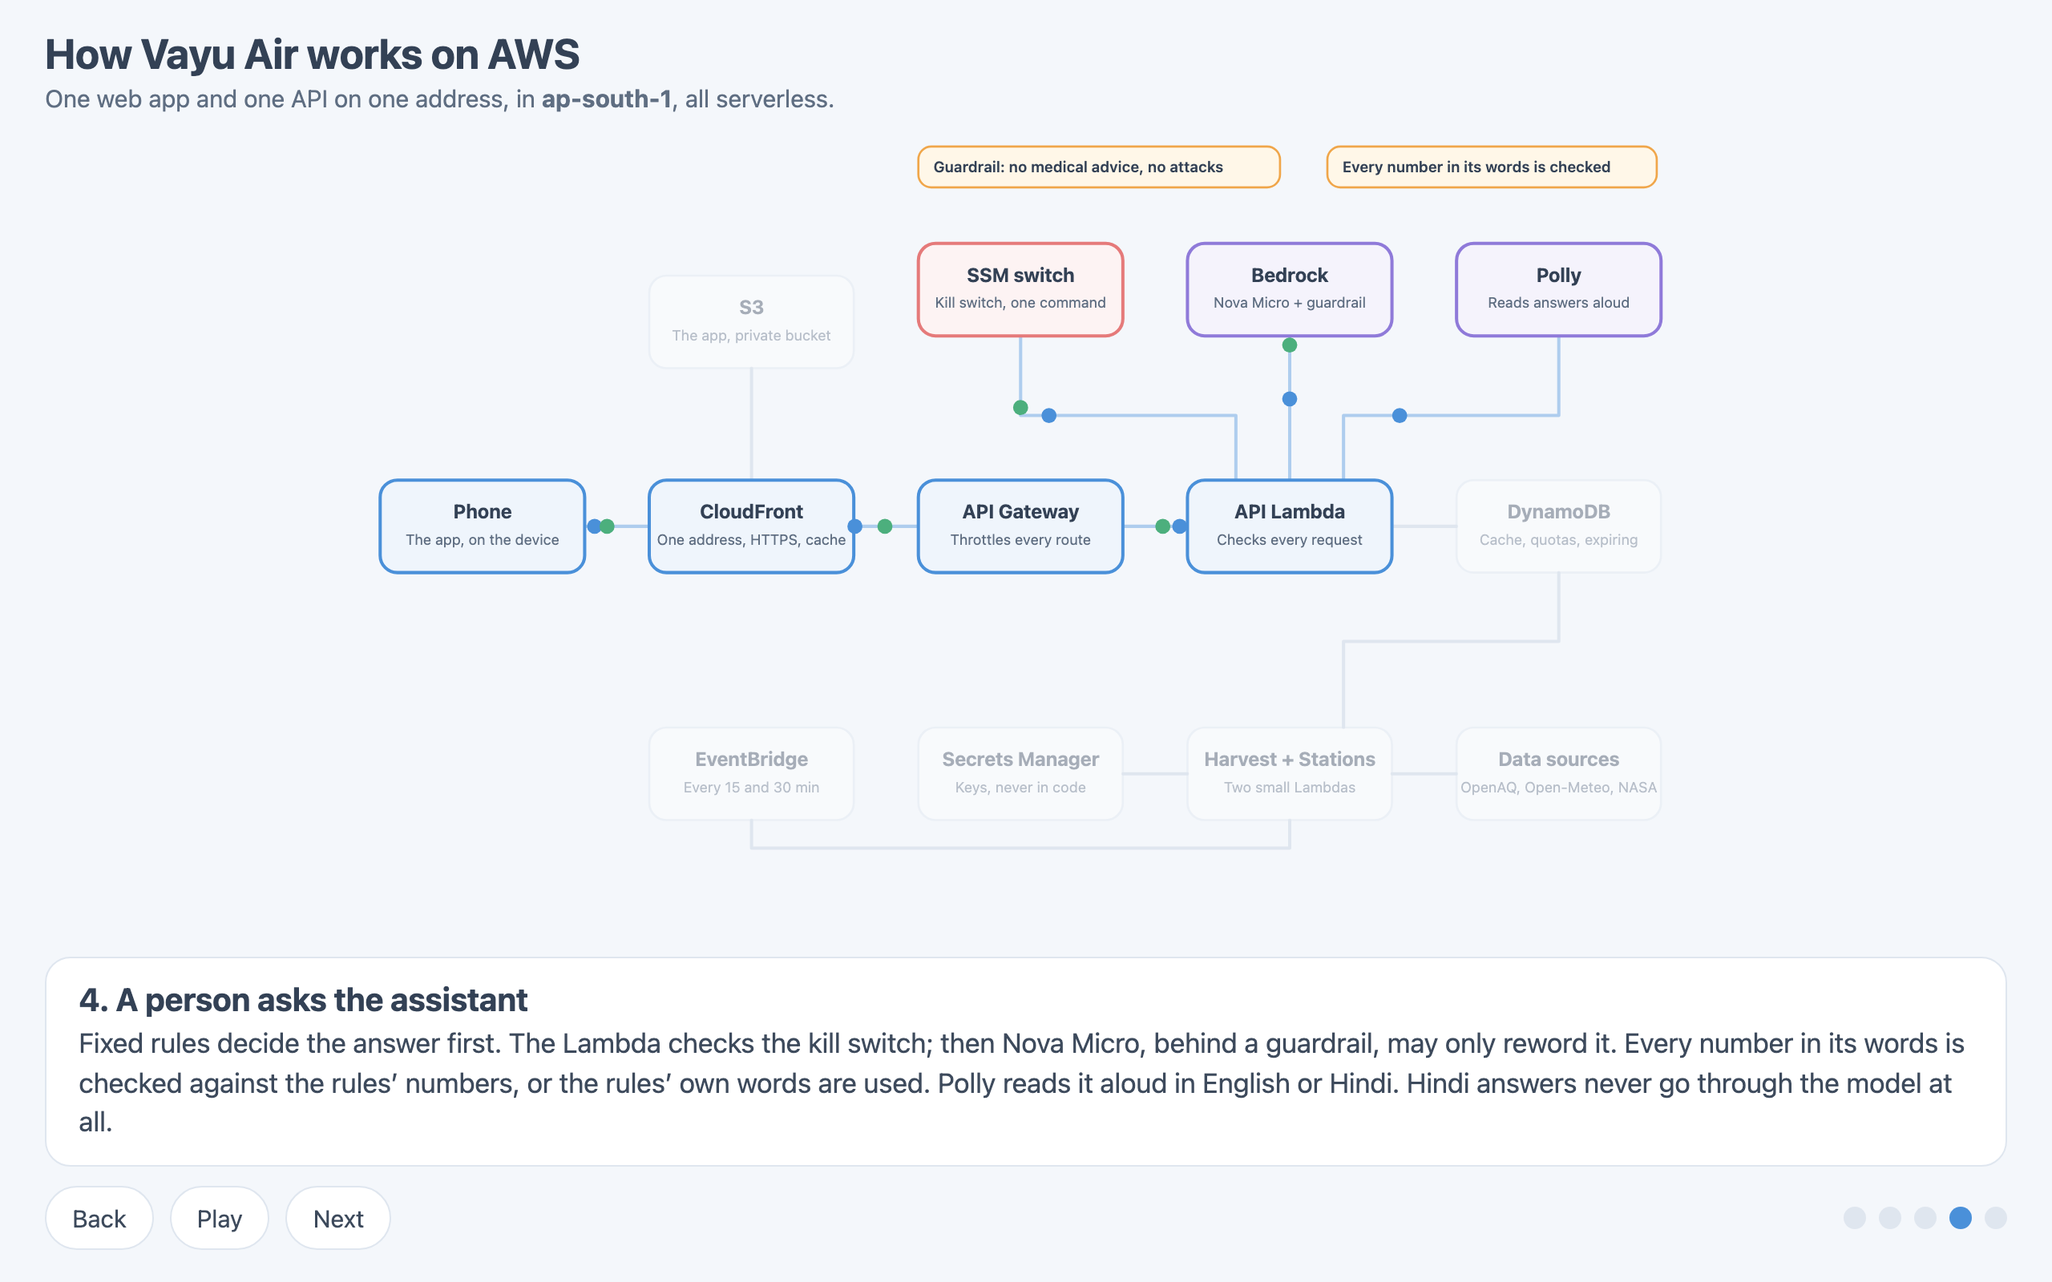
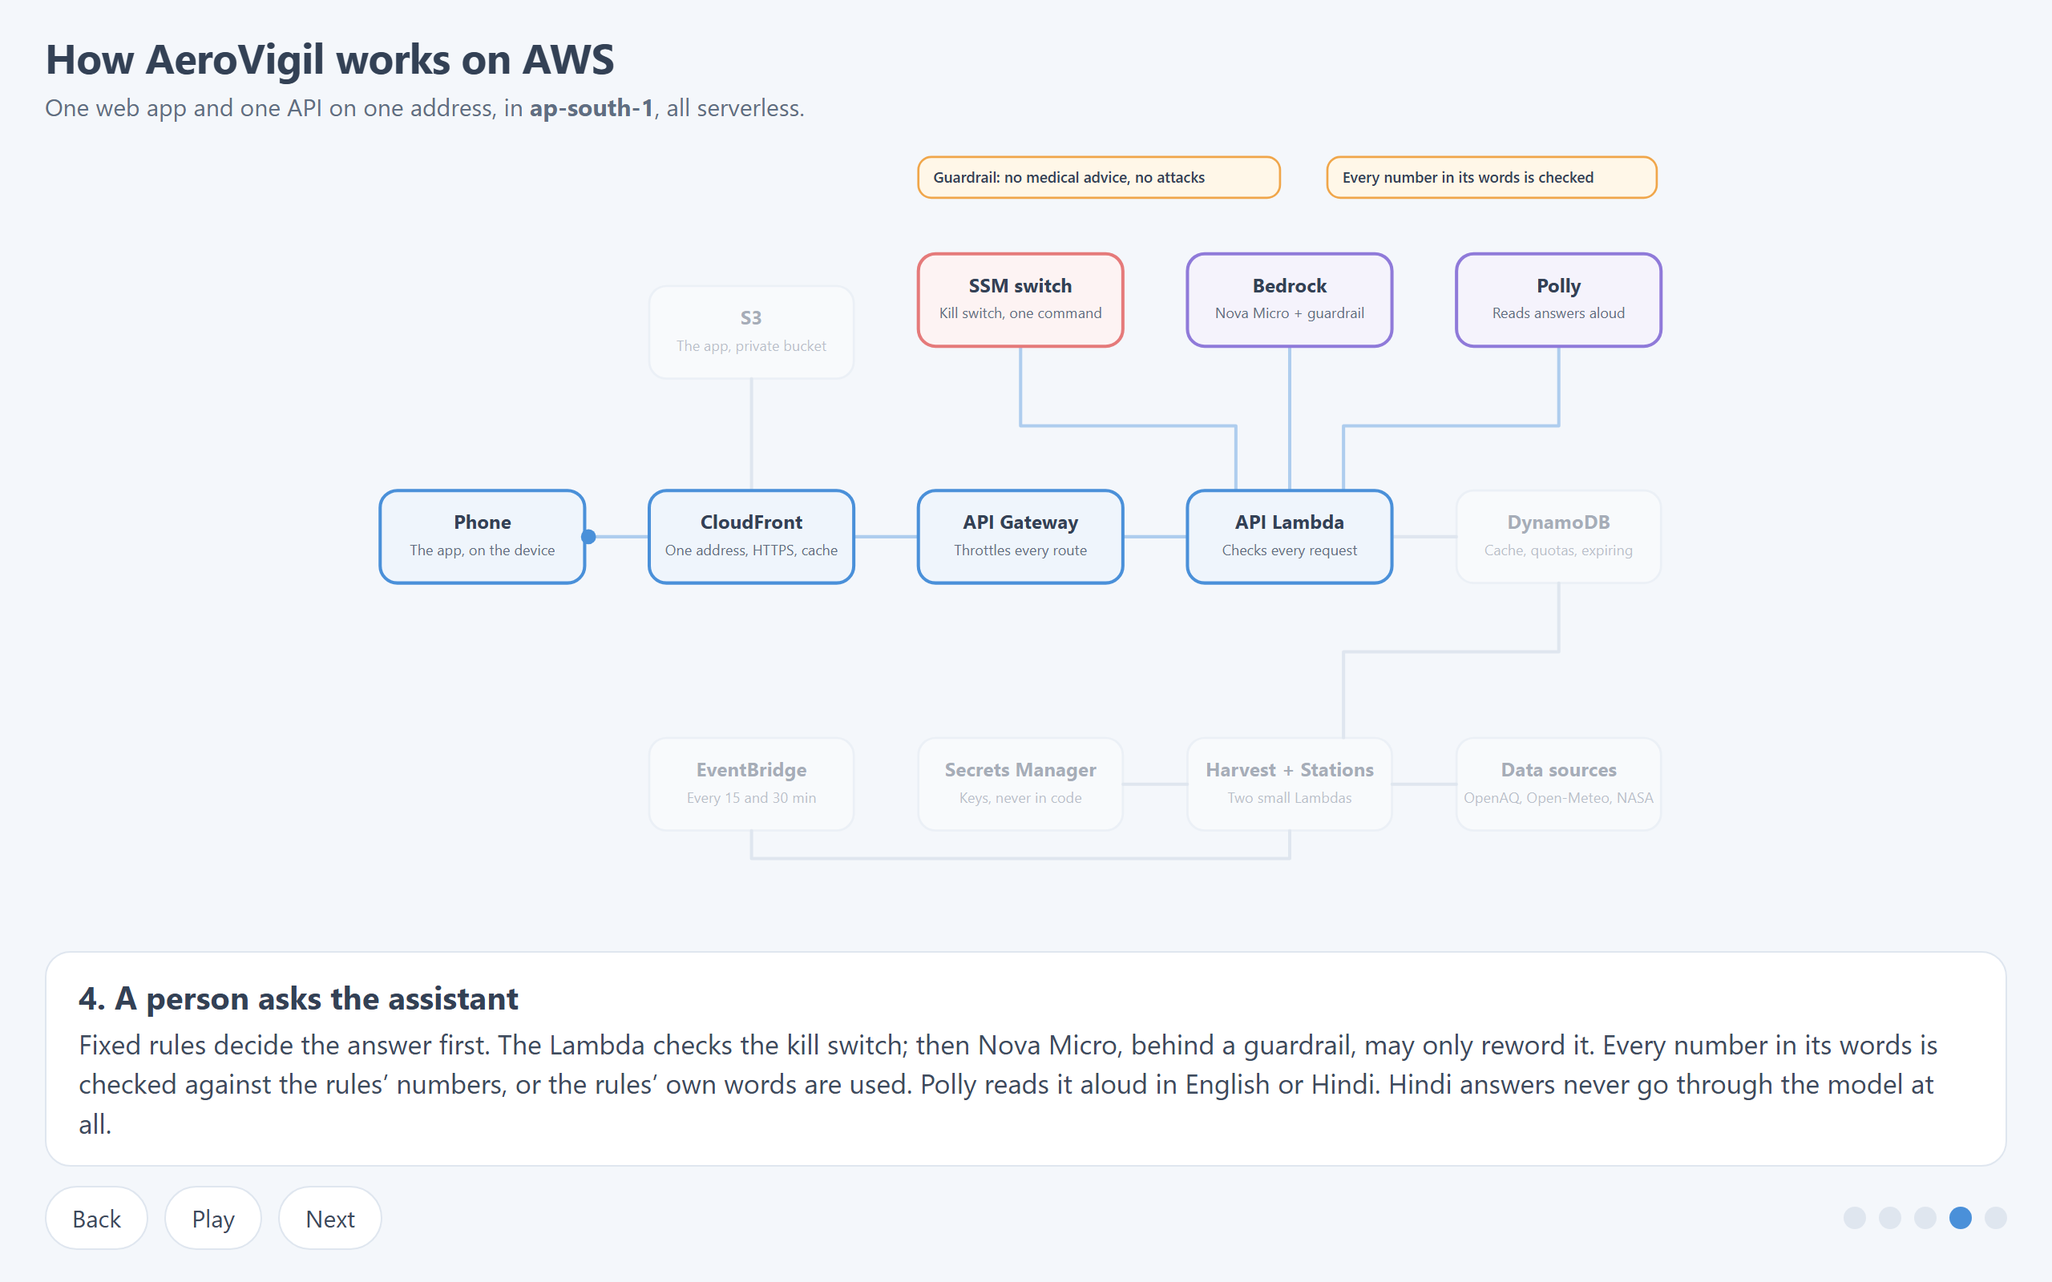
docs(readme): structure first-time visitor walkthrough, feature collages, and build guide

diff --git a/apps/web/src/assistant/AssistantFab.tsx b/apps/web/src/assistant/AssistantFab.tsx
@@ -4,9 +4,9 @@ import { useEffect, useMemo, useRef, useState } from 'react';
 import { alertsFor } from '../alerts/model';
 import { useFires } from '../alerts/useFires';
 import { useHousehold } from '../exposure/useExposure';
-import { readDemo } from '../demo/state';
 import { airStore, useToday } from '../air/store';
 import { API_URL } from '../config';
+import { writeUrl } from './writeUrl';
 import { weekActive } from '../week/active';
 import { useLivePin } from '../places/liveLocation';
 import { usePins } from '../places/usePins';
@@ -49,11 +49,11 @@ interface Message {
   readonly link?: { readonly to: string; readonly label: string };
 }
 
-/** The deployed app asks our API; the prototype and the tests answer from the rules alone. */
+/** The deployed app asks our API; the tests answer from the rules alone. */
 const configured = (): AssistantSource =>
   airStore().kind === 'live' ? apiAssistant(API_URL) : localAssistant;
 
-/** The deployed app reads answers in Amazon Polly's voice through our API; the prototype and the tests use the browser's. */
+/** The deployed app reads answers in Amazon Polly's voice through our API; the tests use the browser's. */
 const configuredVoice = (): Voice =>
   airStore().kind === 'live' ? pollyVoice(API_URL) : browserVoice();
 
@@ -194,8 +194,6 @@ export function AssistantFab({
     end.current?.scrollIntoView({ block: 'end' });
   }, [messages, busy]);
 
-  const staged = useRef(readDemo()?.ask);
-  const asked = useRef(false);
   const waitingFor = useRef<string | undefined>(undefined);
   const logging = useRef<LogDraft | undefined>(undefined);
   const fire = useRef<FireDraft | undefined>(undefined);
@@ -260,7 +258,7 @@ export function AssistantFab({
         fire.current = undefined;
         void submitFireReport(
           { lat: where.lat, lng: where.lng, ...(note === undefined ? {} : { note }) },
-          { baseUrl: airStore().kind === 'live' ? API_URL : undefined },
+          { baseUrl: writeUrl(airStore().kind === 'live', weekActive(), API_URL) },
         ).then(
           (how) => {
             say(sentWords(how, lang), {
@@ -451,23 +449,6 @@ export function AssistantFab({
     // Only when the air arrives.
     // eslint-disable-next-line react-hooks/exhaustive-deps
   }, [context, state?.status]);
-
-  // A demo scenario can open the chat and put a question as soon as the app shows.
-  const stagedQuestion = staged.current;
-  useEffect(() => {
-    if (stagedQuestion === undefined || asked.current || context === undefined) return undefined;
-    asked.current = true;
-    setOpen(true);
-    const timer = window.setTimeout(() => {
-      ask(stagedQuestion);
-    }, 900);
-    return () => {
-      window.clearTimeout(timer);
-      asked.current = false;
-    };
-    // The question is put once, when the context is first known.
-    // eslint-disable-next-line react-hooks/exhaustive-deps
-  }, [context === undefined]);
 
   // Listening shows the words as they are understood, and stops by itself after a few quiet seconds.
   const byVoice = (): void => {
@@ -680,7 +661,7 @@ export function AssistantFab({
                 </div>
                 <section
                   className="ask-cta"
-                  aria-label={lang === 'hi' ? 'अपनी जगह पर वायु पाएँ' : 'Get AeroVigil at your place'}
+                  aria-label={lang === 'hi' ? 'अपनी जगह पर AeroVigil पाएँ' : 'Get AeroVigil at your place'}
                 >
                   <Store size={22} strokeWidth={1.75} aria-hidden="true" />
                   <span>

diff --git a/apps/web/src/assistant/assistant.test.tsx b/apps/web/src/assistant/assistant.test.tsx
@@ -4,7 +4,7 @@ import userEvent from '@testing-library/user-event';
 import { MemoryRouter } from 'react-router-dom';
 import { afterEach, beforeEach, describe, expect, it, vi } from 'vitest';
 import { answerFromRules } from '@aerovigil/core';
-import { sampleDay } from '../today/sample';
+import { sampleDay } from '../testing/sampleDays';
 import { apiAssistant } from './api';
 import { AssistantFab } from './AssistantFab';
 import { spanWords, buildContext } from './context';
@@ -64,7 +64,7 @@ describe('the local answers', () => {
       grapStage: 2,
       best: { span: '4 to 5 pm', aqi: 180 },
     });
-    expect(text).toMatch(/GRAP Stage II is likely today/u);
+    expect(text).toMatch(/GRAP Stage II band today/u);
     expect(text).toMatch(/Walk or exercise indoors today/u);
     expect(text).toMatch(/cleanest hour is 4 to 5 pm, at AQI 180/u);
     expect(text).toMatch(/unofficial/u);
@@ -626,7 +626,11 @@ describe('the best hour in the context', () => {
       await openChat();
       await typeIn('how many fires are there?');
       expect(
-        await screen.findByText(/fires? (in|on|near|across)|fire count|Contact/iu),
+        await screen.findByText(
+          /fires? (in|on|near|across|yesterday)|fire count|Contact/iu,
+          {},
+          { timeout: 4000 },
+        ),
       ).toBeInTheDocument();
       expect(screen.queryByText(/Where is the fire/u)).not.toBeInTheDocument();
       await typeIn('report a fire');
@@ -679,7 +683,7 @@ describe('the best hour in the context', () => {
         'true',
       );
       await userEvent.click(within(language).getByRole('button', { name: 'हिन्दी' }));
-      const dialog = screen.getByRole('dialog', { name: 'वायु सहायक' });
+      const dialog = screen.getByRole('dialog', { name: 'AeroVigil सहायक' });
       expect(dialog).toHaveTextContent('सैर, स्कूल, मास्क');
       expect(screen.getByRole('textbox', { name: 'आपका संदेश' })).toHaveAttribute(
         'placeholder',
@@ -697,7 +701,7 @@ describe('the best hour in the context', () => {
           <AssistantFab voice={voice} />
         </MemoryRouter>,
       );
-      await userEvent.click(screen.getByRole('button', { name: 'वायु सहायक' }));
+      await userEvent.click(screen.getByRole('button', { name: 'AeroVigil सहायक' }));
       await userEvent.click(screen.getByRole('button', { name: 'क्या मुझे मास्क चाहिए?' }));
       expect(await screen.findByText(/अच्छी तरह फिट N95 या FFP2 मास्क/u)).toBeInTheDocument();
       await waitFor(() => {
@@ -720,7 +724,7 @@ describe('the best hour in the context', () => {
           <AssistantFab voice={hindiVoice()} />
         </MemoryRouter>,
       );
-      await userEvent.click(screen.getByRole('button', { name: 'वायु सहायक' }));
+      await userEvent.click(screen.getByRole('button', { name: 'AeroVigil सहायक' }));
       await userEvent.type(
         screen.getByRole('textbox', { name: 'आपका संदेश' }),
         'मैं आज पार्क में 30 मिनट टहला{Enter}',

diff --git a/apps/web/src/assistant/strings.ts b/apps/web/src/assistant/strings.ts
@@ -127,7 +127,7 @@ export const WORDS: Readonly<Record<Lang, Words>> = {
     languageHindi: 'हिन्दी',
   },
   hi: {
-    title: 'वायु सहायक',
+    title: 'AeroVigil सहायक',
     languageLabel: 'भाषा',
     sampleNote: 'जवाब नकली हवा के आँकड़ों पर, तय नियमों से बने हैं।',
     liveNote:
@@ -156,7 +156,7 @@ export const WORDS: Readonly<Record<Lang, Words>> = {
     cancel: 'रद्द करें',
     listen: 'सुनें',
     checking: 'आसपास के मॉनिटर देख रहा हूँ…',
-    ctaTitle: 'अपने स्कूल, सोसाइटी या घर में वायु चाहिए?',
+    ctaTitle: 'अपने स्कूल, सोसाइटी या घर में AeroVigil चाहिए?',
     ctaNote: 'डेमो माँगें, या अपनी जगह पर एयर मॉनिटर माँगें।',
     request: 'अनुरोध',
     quickAnswers: 'जल्दी जवाब',

diff --git a/README.md b/README.md
@@ -1,28 +1,31 @@
 # AeroVigil
 
-**One clear answer for the air at the places you care about.** AeroVigil is a free web app that turns public air-quality data into a daily decision for a Delhi family, school or society: is it a good time for a walk, is school safe, do we need a mask, are the windows better shut. A small measuring unit (an ESP32 and a laser particle sensor) adds the air in your own room, and a prototype cleaner (a fan, a filter and a foam pre-filter in a box) is the thing it will watch.
+**One clear answer for the air at the places you care about.**
 
-> A parent in Delhi sees "AQI 162" for the city. Their child's school is kilometres from the nearest monitor, and the morning assembly is in the open. The app says which monitor the number came from, how far away it is and how old the reading is, what GRAP stage the last day points to (our estimate, never the order), and whether assembly should be inside.
+It is 8 am, the morning after Diwali, in Delhi. The city app says "bad". A parent still has to decide: do we walk to school?
 
-Live: **https://d3sqz5i7m8h3wk.cloudfront.net** (a phone or a laptop; no sign-in) · The recorded days: **https://d3sqz5i7m8h3wk.cloudfront.net/#/week** · Video: _to be added_ · Blog: [`docs/blog.md`](docs/blog.md) · Run it on your machine: `make local`
+AeroVigil answers for _one place_. Home, near R K Puram: **AQI 500**, from the Lodhi Road monitor **3.8 km** away, as recorded. **GRAP Stage IV is likely** (our estimate, never the official order). Stay in; if you must go out, 4 to 5 pm is the cleanest hour.
 
-Code for a Billion Bharat Hackathon submission, August to November 2026.
+Live: **https://d3sqz5i7m8h3wk.cloudfront.net** (a phone or a laptop; no sign-in) · See it on seven real past days: **https://d3sqz5i7m8h3wk.cloudfront.net/#/week** · Blog: [`docs/blog.md`](docs/blog.md) · Video: _to be added_
 
-## It is all real data
+![AeroVigil: My Air on live data, the recorded days, the map with satellite fires, AIR Lens, the assistant and Exposure](docs/images/collage-features.jpg)
 
-Every number in the live app comes from a real source (OpenAQ monitors, Open-Meteo weather, forecast and wind, MET Norway wind as a second source, NASA FIRMS fires) through our own API on AWS. There is no demo mode and no made-up number in the deployed bundle; `make prove` fails if one gets in. **See the recorded days** on My Air (shown only when you have no places) opens the recorded days in a new tab, so you can see every feature on seven real past days without waiting for a bad one.
+## Why it is different
 
-**The recorded days is real too.** Open `/#/week` and the same app plays seven real days from last winter, one at a time, as if each were today at 8 am: 7 Oct 2025 (rain, and the cleanest of the seven), 21 Oct (the day after Diwali, GRAP Stage IV by our estimate), 31 Oct (stubble fires), 9 Nov (smog, Stage III), 22 Dec (smog, Stage II), 23 Jan 2026 (heavy rain clears the smog overnight) and 30 Mar (wind). The air comes from four Delhi monitors in OpenAQ's public archive, the weather from Open-Meteo's archive, the fires from NASA FIRMS. It is there so you can see every feature without waiting for a bad day, and the page says it is recorded. Cleaning is two rules, written in the file and counted (see [`docs/AS-BUILT.md`](docs/AS-BUILT.md)).
+- **One answer for one place.** A card for Home, a school, a park: which monitor the number came from, how far away it is, how old the reading is, and what to do (walk, mask, windows, whether assembly should be inside).
+- **It says when not to trust itself.** A reading older than six hours gives no advice. A regional-model number is labelled an Estimate. A GRAP stage is shown as our estimate.
+- **Code decides, AI only words.** Fixed rules decide the advice. The model may reword it, and every number in its wording is checked against the facts, or the plain text goes out.
+- **It reaches into your room.** A small measuring unit (an ESP32-S3 and a laser particle sensor, over Bluetooth) puts your room's air beside the air outside.
 
-The only made-up days in the repository are in the separate prototype build (`npm run build:demo`: device frames, scenarios, a simulated Bluetooth unit), which is never uploaded and is labelled "Sample data" wherever it shows a number.
+Code for a Billion Bharat Hackathon submission, August to November 2026. Built alone.
 
 ## Try it in two minutes
 
-1. Open the live address. Add a place (search, or "Detect my location"): its card shows the AQI, the weather, the nearest monitor's name, distance and age, and today and the next two days.
+1. Open the live address. Add a place (search, or "Detect my location"): its card shows the AQI, the weather, the nearest monitor's name, distance and age, and today and the next two days. With no places yet, **See the recorded days** opens the seven real past days in a new tab.
 2. Open the card: **Insights for this place** (a school's morning assembly, a walk in a park, alerts that apply there).
 3. Open the **Map** (every monitor, wind, fires), **Exposure** (the air a person breathed, hour by hour) and **AIR Lens** (the air as particles in front of the camera).
-4. Press the round **Ask** button and ask "When can I walk today?" in English or हिन्दी. Fixed rules decide the answer; the model only rewords it.
-5. Open `/#/week` and step through the seven recorded days.
+4. Press the round **Ask** button and ask "When can I walk today?" in English or हिन्दी.
+5. Step through the seven recorded days at `/#/week`: 7 Oct 2025 (rain, and the cleanest of the seven), 21 Oct (the day after Diwali, GRAP Stage IV by our estimate), 31 Oct (stubble fires), 9 Nov (smog, Stage III), 22 Dec (smog, Stage II), 23 Jan 2026 (heavy rain clears the smog overnight) and 30 Mar (wind).
 6. With a measuring unit: **Add device** at the top right of My Air, then Connect over Bluetooth (Chrome on a computer or Android; not iPhone Safari). See [`docs/UNIT.md`](docs/UNIT.md).
 
 ## What it does
@@ -38,6 +41,22 @@ The only made-up days in the repository are in the separate prototype build (`np
 | **The recorded days** | The whole app on seven real past days, labelled recorded.                                                                                                                                                                           |
 
 Every number says whether it is **Live** (a named monitor, how far, how old), an **Estimate** (a regional model) or **Measured** (your own unit). Monitor readings older than six hours are not used, and nothing is advised from them.
+
+## I built the hardware too
+
+A measuring unit for a room, and a cleaner for it to watch. Both are mine, wired, flashed and built by hand.
+
+![The cleaner in five steps: the box, the fan inside it, the pleated filter, the foam pre-filter, assembled](docs/images/collage-build.jpg)
+
+The unit reads a Sensirion SPS30 laser sensor through an ESP32-S3 and sends the room's air to the app over Bluetooth. The cleaner is a box, a Hicool centrifugal fan, a pleated filter and a foam pre-filter: ₹5,000 of parts. A vane anemometer at its outlet read about **191 cfm**. That is airflow, **not CADR**: the smoke-decay test has not been run, and the unit has not been compared with a monitor. [`docs/PURIFIER.md`](docs/PURIFIER.md) and [`docs/UNIT.md`](docs/UNIT.md) say exactly what was and was not measured.
+
+## It is all real data
+
+Every number in the live app comes from a real source (OpenAQ monitors, Open-Meteo weather, forecast and wind, MET Norway wind as a second source, NASA FIRMS fires) through our own API on AWS. There is no demo mode and no made-up number in the deployed bundle; `make prove` fails if one gets in. **See the recorded days** on My Air (shown only when you have no places) opens the recorded days in a new tab, so you can see every feature on seven real past days without waiting for a bad one.
+
+**The recorded days is real too.** Open `/#/week` and the same app plays seven real days from last winter, one at a time, as if each were today at 8 am: 7 Oct 2025 (rain, and the cleanest of the seven), 21 Oct (the day after Diwali, GRAP Stage IV by our estimate), 31 Oct (stubble fires), 9 Nov (smog, Stage III), 22 Dec (smog, Stage II), 23 Jan 2026 (heavy rain clears the smog overnight) and 30 Mar (wind). The air comes from four Delhi monitors in OpenAQ's public archive, the weather from Open-Meteo's archive, the fires from NASA FIRMS. It is there so you can see every feature without waiting for a bad day, and the page says it is recorded. Cleaning is two rules, written in the file and counted (see [`docs/AS-BUILT.md`](docs/AS-BUILT.md)).
+
+The only made-up days in the repository are in the separate prototype build (`npm run build:demo`: device frames, scenarios, a simulated Bluetooth unit), which is never uploaded and is labelled "Sample data" wherever it shows a number.
 
 ## Where AWS fits
 
@@ -146,9 +165,11 @@ The stack deploys with `cd infra && npx cdk deploy`. It needs three secrets made
 | `docs/LIVE-CHECKLIST.md`          | What was checked on the live address, and what was found                        |
 | `docs/SUBMISSION.md`              | The words for the form, the video script, the AI services used, feedback on AWS |
 | `docs/blog.md`                    | The write-up                                                                    |
+| `docs/VIDEO.md`                   | The video: what to open, show and say                                           |
+| `submission/`                     | Every answer to the submission form, in one folder                              |
 | `docs/learning-log.md`            | What broke and how it was fixed                                                 |
 | `docs/IMPLEMENTATION-PLAN.md`     | The plan the deployed app was first built to (historical)                       |
-| `CONTRIBUTIONS.md`                | Who did what, and how AI was used                                               |
+| `CONTRIBUTIONS.md`                | What I built and delivered                                                      |
 | `DESIGN.md`                       | The visual design brief                                                         |
 
 ## AI in the app
